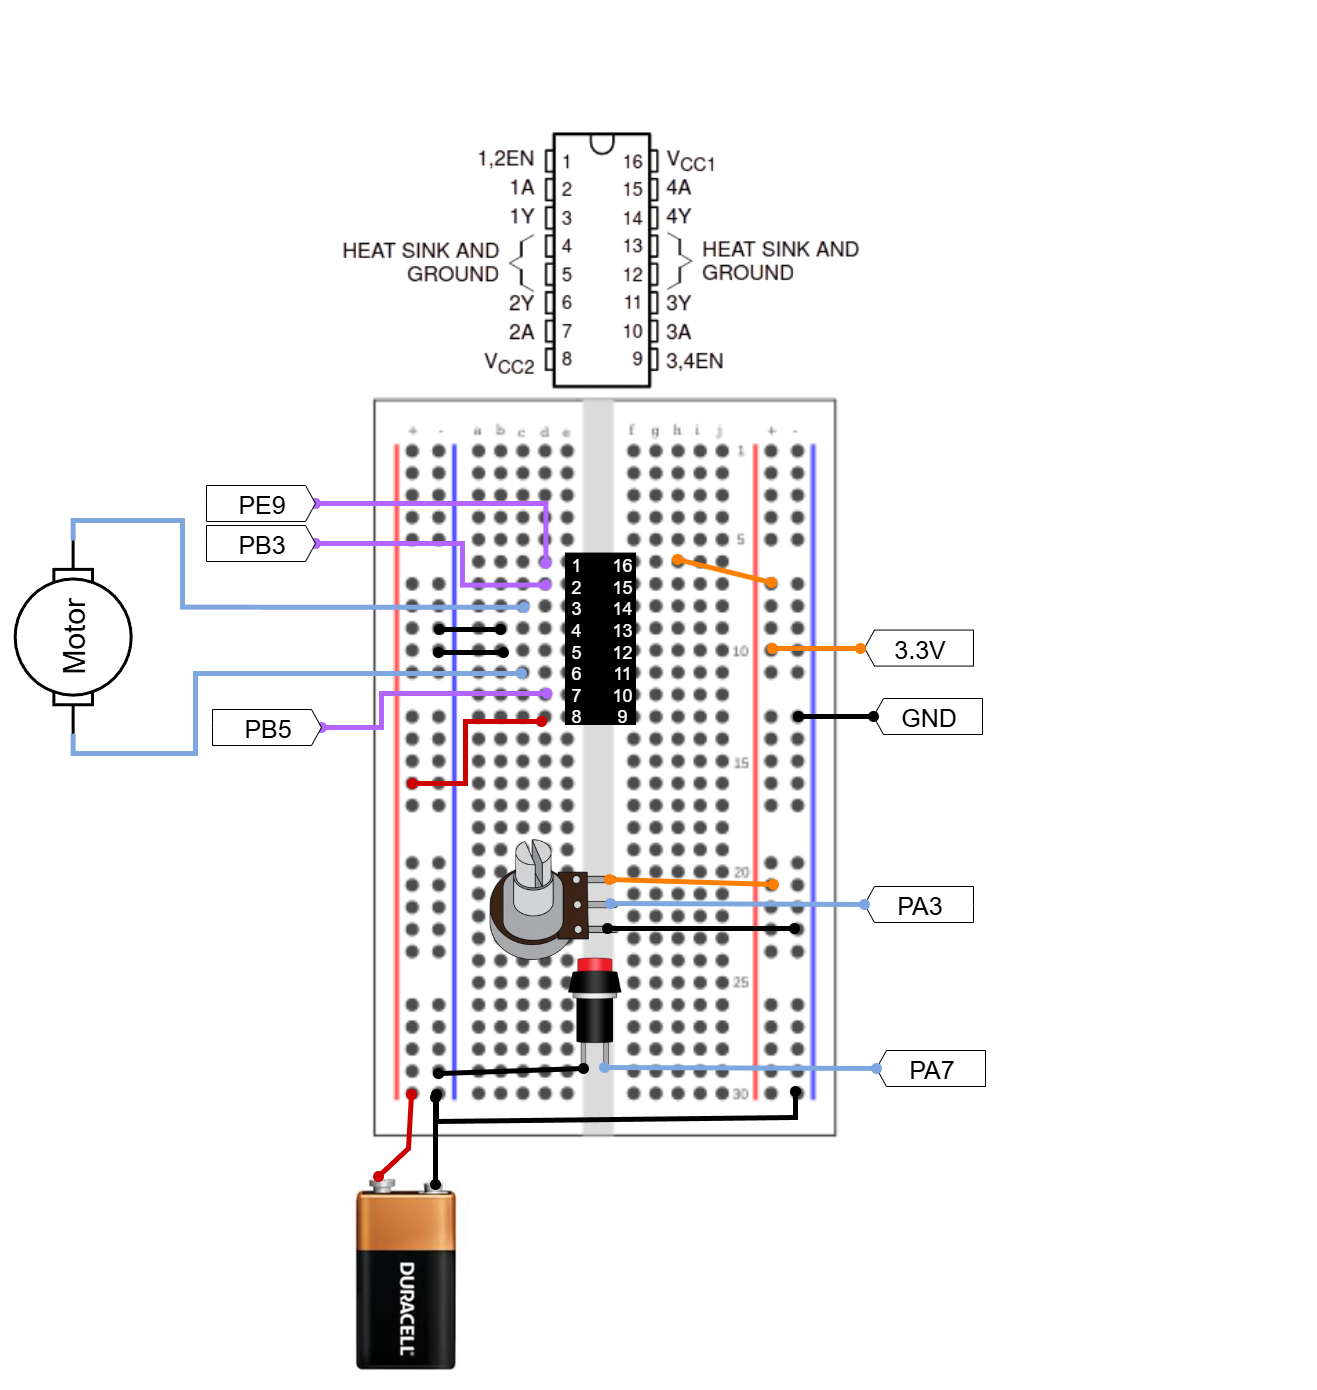
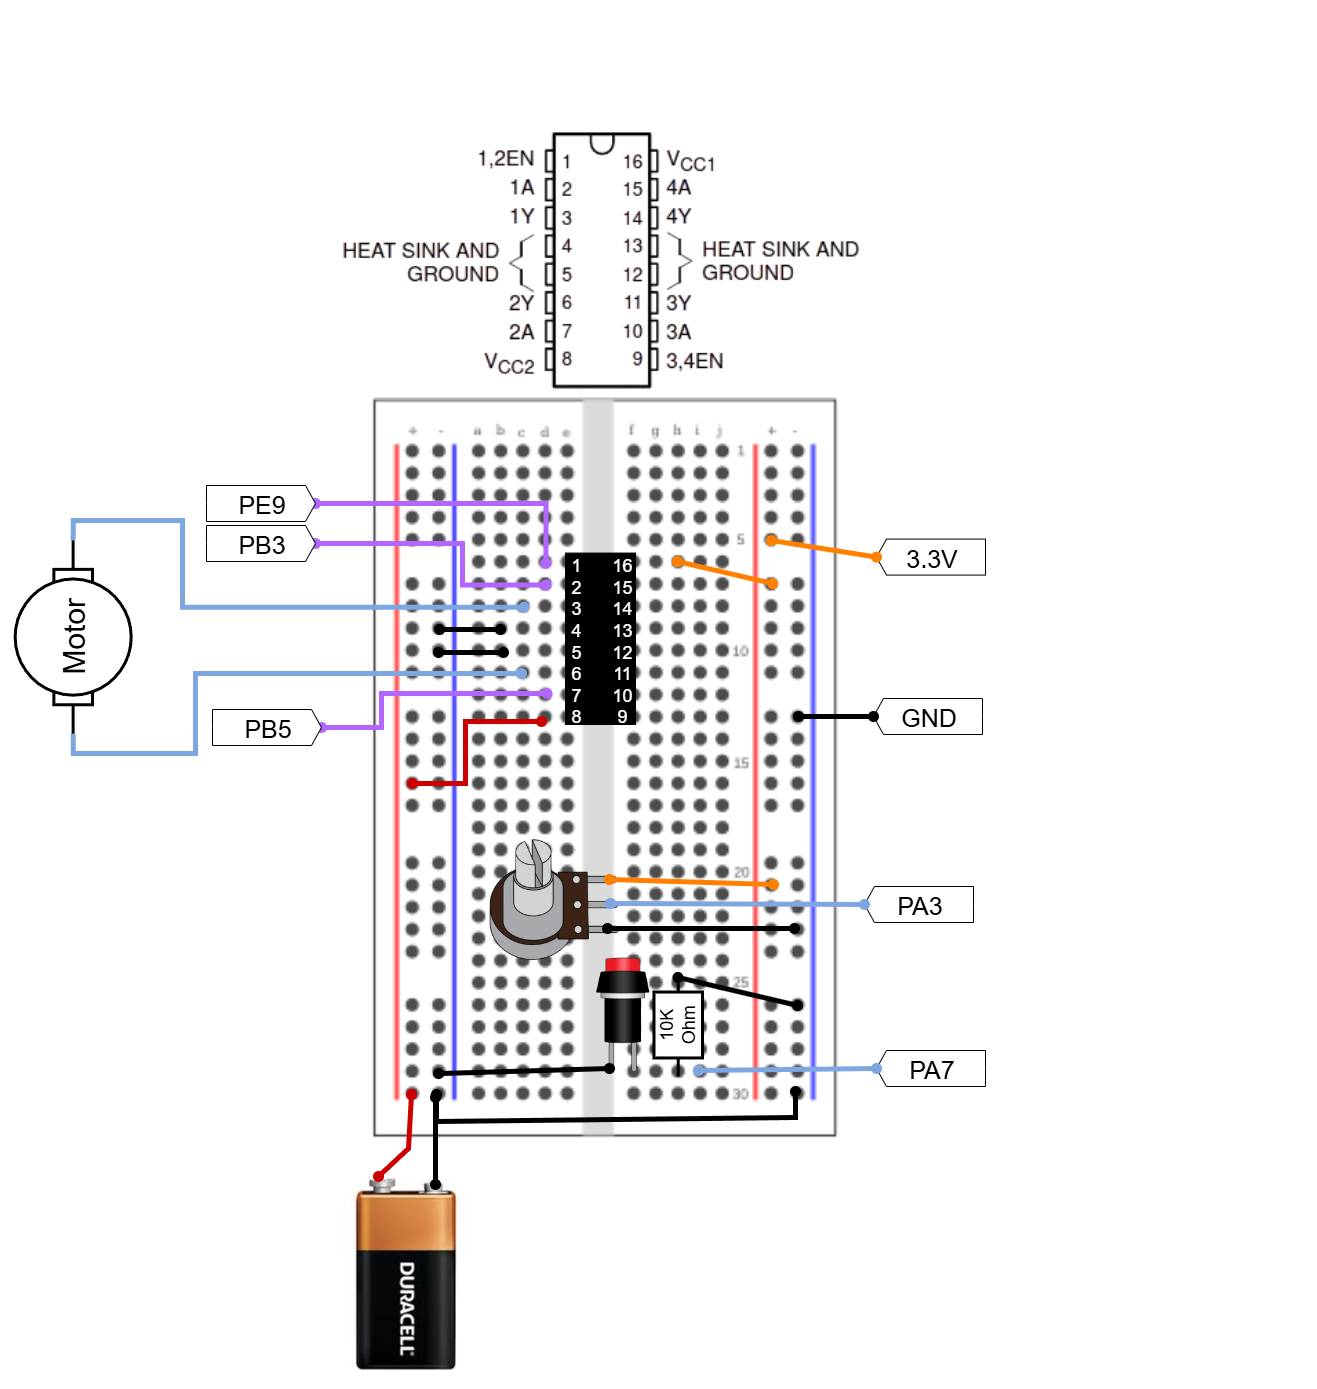
motor drive lecture done

diff --git a/_pages/lectures/l7-motordrive.md b/_pages/lectures/l7-motordrive.md
@@ -107,7 +107,7 @@ EN pin as shown H or L here, but it is the pin we will provide PWM signal. 1A an
 Set up this circuit. We will not use the potentiometer and the button in this exercise, but we will use them in the next ones.
 
 {: .notice--warning}
-PLEASE DO NOT CONNECT ANYTHING IF YOU ARE CONNECED TO YOUR PC VIA USB! FIRST UNPLUG THE POWER!
+PLEASE DO NOT CONNECT ANYTHING IF YOU ARE CONNECED TO YOUR PC VIA USB! First, unplug the USB power. Second, set up your whole circuit, including your 9V battery. Observe that the power LED of Nucleo is not blinking red (it means that there is a short circuit or power imbalance like if you connect your 3.3V and 9V on the same bus). Touch your L293D and check that it is not burning hot. Now, *probably* you can connect USB.
 
 ![h-bridge-circuit.png]({{site.baseurl}}/assets/images/h-bridge-circuit.png)
 
@@ -158,12 +158,98 @@ PLEASE DO NOT CONNECT ANYTHING IF YOU ARE CONNECED TO YOUR PC VIA USB! FIRST UNP
   - Rotate the motor in the other direction *faster* for 2 seconds
   - Stop the motor for 2 seconds
 1. Before paste-ing the code below, think about it. How you would implement this code?
-
-
   <button onclick="var c=document.getElementById('show-dir-code'); if(c.style.display==='none'){c.style.display='block'; this.textContent='Hide Code';}else{c.style.display='none'; this.textContent='Show code';}">Show code</button>
   <pre id="show-dir-code" style="display:none;"><code>
   // Set Direction (IN_1A HIGH, IN_2A LOW)
-  HAL_GPIO_WritePin(IN_1A_P, GPIO_PIN_5, GPIO_PIN_SET);
-  HAL_GPIO_WritePin(GPIOB, GPIO_PIN_4, GPIO_PIN_RESET);
-</code></pre>
+    HAL_GPIO_WritePin(IN_1A_GPIO_Port, IN_1A_Pin, GPIO_PIN_SET);
+    HAL_GPIO_WritePin(IN_2A_GPIO_Port, IN_2A_Pin, GPIO_PIN_RESET);
+    // Set slow speed, let's say ~25% duty cycle
+    __HAL_TIM_SET_COMPARE(&htim1, TIM_CHANNEL_1, 249);
+    HAL_Delay(2000);
+    // Set high speed, let's say ~75% duty cycle
+    __HAL_TIM_SET_COMPARE(&htim1, TIM_CHANNEL_1, 749);
+    HAL_Delay(2000);
+
+    // Set Direction (IN_1A LOW, IN_2A HIGH)
+    HAL_GPIO_WritePin(IN_1A_GPIO_Port, IN_1A_Pin, GPIO_PIN_RESET);
+    HAL_GPIO_WritePin(IN_2A_GPIO_Port, IN_2A_Pin, GPIO_PIN_SET);
+    // Set slow speed, let's say ~25% duty cycle
+    __HAL_TIM_SET_COMPARE(&htim1, TIM_CHANNEL_1, 249);
+    HAL_Delay(2000);
+    // Set high speed, let's say ~75% duty cycle
+    __HAL_TIM_SET_COMPARE(&htim1, TIM_CHANNEL_1, 749);
+    HAL_Delay(2000);
+
+    // STOP MOTOR!
+    HAL_GPIO_WritePin(IN_1A_GPIO_Port, IN_1A_Pin, GPIO_PIN_RESET);
+    HAL_GPIO_WritePin(IN_2A_GPIO_Port, IN_2A_Pin, GPIO_PIN_RESET);
+    __HAL_TIM_SET_COMPARE(&htim1, TIM_CHANNEL_1, 0);
+    HAL_Delay(2000);
+  </code></pre>
+
+Build and upload.
+
+{: .notice--warning}
+Unplug the GND pin of the battery to save some power unless you use it.
+
+### Some weird behaviours?
+What happens if you press the RESET button on your board? If your motor runs even faster in one direction, then it is probably related to the **raw hardware reset state of the GPIO pins**.  Why does it happen? When you hold the Reset button CPU is halted, which means the microcontroller's CPU is stopped, meaning no code (main, MX_GPIO_Init, MX_TIM1_Init) is executing. All peripheral registers, including the GPIO Output Data Register (ODR), are reset to their default values. On many STM32 chips, the default hardware state of an unconfigured GPIO pin is either floating (which can be pulled HIGH by noise or capacitance) or weakly pulled HIGH for a short duration.
+
+The L293D motor driver requires two conditions to run the motor:
+- The Enable pin (your PWM pin) must be HIGH.
+- One of the Input pins (``IN_1A`` or ``IN_2A``) must be HIGH (the other LOW).
+
+If the motor runs while you hold reset, it means the default hardware reset state of your pins is causing: *(PWM Pin State=HIGH) AND ((IN_1A=HIGH) OR (IN_2A=HIGH))*
+
+
+Since you cannot control the hardware state while the chip is in reset, the fix is either:
+- Hardware Fix (Most Robust): Add a physical pull-down resistor (e.g., 10kΩ) to the PWM Enable pin. If you want, you can also add 2 more 10kΩ to the Direction Pins (``IN_1A``, ``IN_2A``) on your circuit board. This guarantees the pins are held safely LOW (motor OFF) until the microcontroller's C code starts running and configures them.
+
+Software Fix (Defensive): Ensure that the pins that control the direction (IN_1A and IN_2A) are configured and forced to a safe, LOW state as the very first instruction set of the program.
+
+Another issue might be that you experience something called *classic transient state issue* in microcontroller programming. If you observe a short moment that your motor spins fast, it is almost certainly due to a temporary full power signal (100% duty cycle) being applied to your L293D motor driver right as the peripherals stabilize.
+
+
+## Exercise-2: Adjusting DC motor speed with potentiometer
+We will use the same circuit and almost the same CubeMX settings. 
+1. Let's try something new this time. Do not create a new CubeMX project, but go to your folders and find the previous project.
+1. Copy paste the whole folder and rename it to something make sense, f.ex `motor_drive_with_potentiometer`. Rename both the folder and the CubeMX .ioc file in it.
+1. Go to VSCode and open the project in PlatformIO. In this way, we don't need to generate `platformio.ini` file. It is already copied with the previous one.
+1. Now, you can also open this project on CubeMX by just double clicking the .ioc file in the new folder.
+1. Configure GPIO for direction-change button: Locate and configure pin ``PA7`` as ``GPIO_Output`` and label it as **DIR_BTN**. By using this button, we will change the motor rotation direction: Stop->Clockwise->Counter-clockwise and go back to Clockwise.
+1. Configure `PA3` for potentiometer as analog input. Go to `Analog > ADC1 > Enable IN3`. This will activate `PA3` as `ADC1_IN3`. Re-label this pin as `POT_IN`. By using this value, we will adjust the motor speed. *Note that it would be much better to use ADC with DMA here, but in the tutorial, we will keep things simple.*
+1. Clock configuration, project name and settings are already inplace, just generate the code.
+
+<u>Code implementation</u>
+
+1. There is already a bit of code from before. We will keep some of it.
+1. There are different ways of setting if-else statements but I think the most elegant solution for this exercise is to set up a *finite state machine* ❤. Put this in `/* USER CODE BEGIN PTD */`:
+  ```c
+  // Define the states for the Motor Finite State Machine
+  typedef enum {
+    MOTOR_STATE_STOP = 0, // Explicitly set to 0
+    MOTOR_STATE_CW,       // Defaults to 1
+    MOTOR_STATE_CCW       // Defaults to 2
+  } MotorState_t;
+  ```
+1. Set some fix values as private definitions under `/* USER CODE BEGIN PD */`:
+  ```c
+  #define ADC_MAX_VALUE 4095      // Max value for 12-bit ADC
+  #define PWM_MAX_VALUE 999       // TIM1 Period value (0 to 999 = 1000 counts)
+  #define MIN_ACTIVE_SPEED 100    // Minimum PWM value to overcome motor friction (approx 10%)
+  #define DEBOUNCE_TIME_MS 100    // Debounce time for button
+  ```
+1. Set some private variables and their initial values before we start under `/* USER CODE BEGIN PV */`:
+  ```c
+  uint32_t adc_value = 0;
+  uint32_t current_pwm = 0;
+  MotorState_t current_motor_state = MOTOR_STATE_STOP; // Initial state
+  GPIO_PinState last_dir_btn_state = GPIO_PIN_RESET;
+  uint32_t last_button_press_time = 0;
+  ```
+1. Time to update `/* USER CODE BEGIN 3 */`. Read the ADC value, map it to between 0-999, and set it as PWM value in  Additionally, read the `DIR_BTN` and toggle the motor rotation direction every press. Try yourself, before revealing the solution. My suggested code here get a bit long, since I implemented debouncing to the button, added a dead zone for the ADC-PWM mapping. Therefore, below there is link that will take you to the solution.
+
+  [Click here if you want to see the solution](https://github.com/fjnn/stm32-lecture-projects/blob/58aa0e49fc8054c7b2f01460c54fc0833e2ffcf8/motor_control_with_potentiometer/Src/main.c)
+
+Build, upload and observe.
 

diff --git a/_pages/exercises/exercises.md b/_pages/exercises/exercises.md
@@ -30,6 +30,7 @@ taxonomy: markup
 - [L6 - LED Dimmer with PWM](https://github.com/fjnn/stm32-lecture-projects/tree/main/pwm-led-dimmer)
 - [L6 - Potentiometer LED Dimmer with PWM](https://github.com/fjnn/stm32-lecture-projects/tree/main/pwm-led-dimmer)
 - [L6 - Simple servo motor angle set](https://github.com/fjnn/stm32-lecture-projects/tree/main/servo_simple)
+- [L7 - Simple DC motor drive with L293D](https://github.com/fjnn/stm32-lecture-projects/tree/c55ef2a15c37537c4abd669b2d2805a7f19ee6b3/motor_control_simple)
 - [L8 - UART Hello World](https://github.com/fjnn/stm32-lecture-projects/tree/a7cd06a22d43433b1056bfae968c738f5ca27df2/usart3-helloworld)
 - [L8 UART Two STM32s Transmitter](https://github.com/fjnn/stm32-lecture-projects/tree/a7cd06a22d43433b1056bfae968c738f5ca27df2/uart-two-stm32-transmit)
 - [L8 UART Two STM32s Receiver](https://github.com/fjnn/stm32-lecture-projects/tree/a7cd06a22d43433b1056bfae968c738f5ca27df2/uart-two-stm32-receive)
